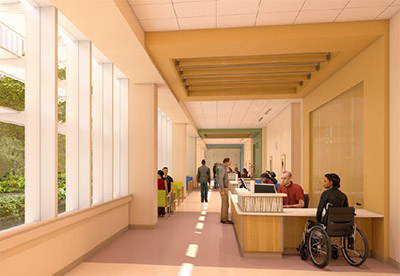
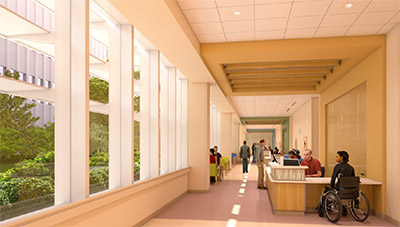
Interactive images updated, added, styled.

diff --git a/index.html b/index.html
@@ -516,14 +516,14 @@
 					<p>The hospital&rsquo;s most striking architectural feature is an arched concourse curving across two city blocks and rising six stories. It includes dining space, retail shops, a coffeeshop and a chapel. A zigzag wall on the west side affords mountain views while deflecting heat from the afternoon sun. The zigzag wall and the curved shape of the concourse drew criticism from VA officials and others for raising costs, but were not eliminated.</p>
 				</div>
 				<div class="over-hide" id="over-solar">
+					<img src="./img/over-solar.png" alt="Solar panel" />
 					<h2>Photovoltaic panels</h2>
-					<img src="./img/over-solar.jpg" alt="Solar panel" class="right" />
 					<p>Most of the buildings have rooftop solar panels that supply energy to the complex. Several have south-facing solar water-collection systems that heat water for use in the hospital. These expenses are included in the building costs.</p>
 				</div>
 				<div class="over-hide" id="over-diagnostic">
 					<h3>$299 million</h3>
 					<h2>Diagnostic/Treatment</h2>
-					<img src="./img/over-diagnostic.jpg" alt="Diagnostic/Treatment detail" class="left" />
+					<img src="./img/over-diagnostic.png" alt="Diagnostic/Treatment detail" class="right" />
 					<p>These two buildings form the core of the hospital. Below are some of the functions located there:</p>
 					<p>&bull; Level 3 contains surgery with operating rooms, pre-op and anesthesiology. Also includes cardiac catheterization lab and interventional radiology suite.</p>
 					<p>&bull; Level 2 houses noninvasive cardiology, neurology, pulmonary and main hospital lab.</p>
@@ -539,7 +539,7 @@
 					<h3>$265 million</h3>
 					<h2>Inpatient buildings</h2>
 					<p>There are 148 inpatient rooms in the two buildings, including 28 in the intensive care unit, 30 for mental health patients and 30 for spinal-cord injury patients. Each room has a window. A bridge allows easy transfer of post-op patients to the ICU.</p>
-					<img src="./img/over-room.jpg" alt="Patient room detail" class="right" />
+					<img src="./img/over-room.jpg" alt="Patient room detail" />
 				</div>
 				<div class="over-hide" id="over-garages">
 					<h3>$180 million</h3>
@@ -550,7 +550,7 @@
 					<h3>$229 million</h3>
 					<h2>Clinics</h2>
 					<p>There are three clinic buildings on the site, including Clinic Building South, which is south of the two new ones below. They house dozens of offices for veteran services, such as opthalmology, rheumatology, gastroenterology, renal, cardiovascular, urology and oncology. Administrative offices also are here.</p>
-					<img src="./img/over-clinic.jpg" alt="Clinic hallway detail" class="right" />
+					<img src="./img/over-clinic.jpg" alt="Clinic hallway detail" />
 				</div>
 				<div class="over-hide" id="over-research">
 					<h3>$79 million</h3>

diff --git a/css/style.css b/css/style.css
@@ -790,32 +790,46 @@ div.over-hide {
     visibility: hidden;
     opacity: 0;
     position: absolute;
+    overflow:hidden;
     left:25%;
     width:50%;
     top:10%;
     height:80%;
     background-color: rgba(255,255,255,0.85);
-    border:1px solid rgba(0,70,70,0.85);
+    border:2px solid rgba(0,70,70,0.75);
     padding:1em;
     text-align:center;
     -webkit-transition:visibility 0s linear 0.3s,opacity 0.3s ease-in-out;
     transition:visibility 0s linear 0.3s,opacity 0.3s ease-in-out;
+}
+div.over-hide img {
+    width:100%;
+    margin:.5em 0 0
 }
 #over-diagnostic {
     width:70%;
     left:15%;
 }
 #over-diagnostic img {
-    width:30%;
-    margin: 0 .5em .5em 0;
+    width:40%;
+    margin: 0 0 1em 1em;
 }
-#over-diagnostic img {
-    width:30%;
-    margin: 0 .5em .5em 0;
+#over-inpatient,
+#over-concourse {
+    width:55%;
+    left:22.5%;
+}
+#over-concourse img {
+    width:40%;
+    margin: 0 1em 1em 0;
 }
 #over-solar img {
-    width:20%;
-    margin: 0 0 .5em .5em;
+    width:85%;
+    margin: 0 0 1em;
+}
+#over-clinics img,
+#over-inpatient img {
+    width:80%;
 }
 #graphic-over div.over-hide h3 {
     text-transform: uppercase;
@@ -837,7 +851,7 @@ div.over-hide {
     text-align: left;
     font-family: 'PT Sans', Helvetica, Arial, sans-serif;
     font-size: 1em;
-    margin:0 auto;
+    margin:0 auto .5em;
     line-height: 1.4;
     font-weight: normal;
 }

diff --git a/js/functions.js b/js/functions.js
@@ -292,6 +292,9 @@ $(document).keyup(function(e) {
                 elChildren[i].style.opacity = "0";
             }
         }
+        for (var i = buttons.length - 1; i >= 0; i--) {
+            buttons[i].style.backgroundColor = 'rgba(255,255,255,0.7)';
+        }
         el.removeEventListener('click');
     }
 });
